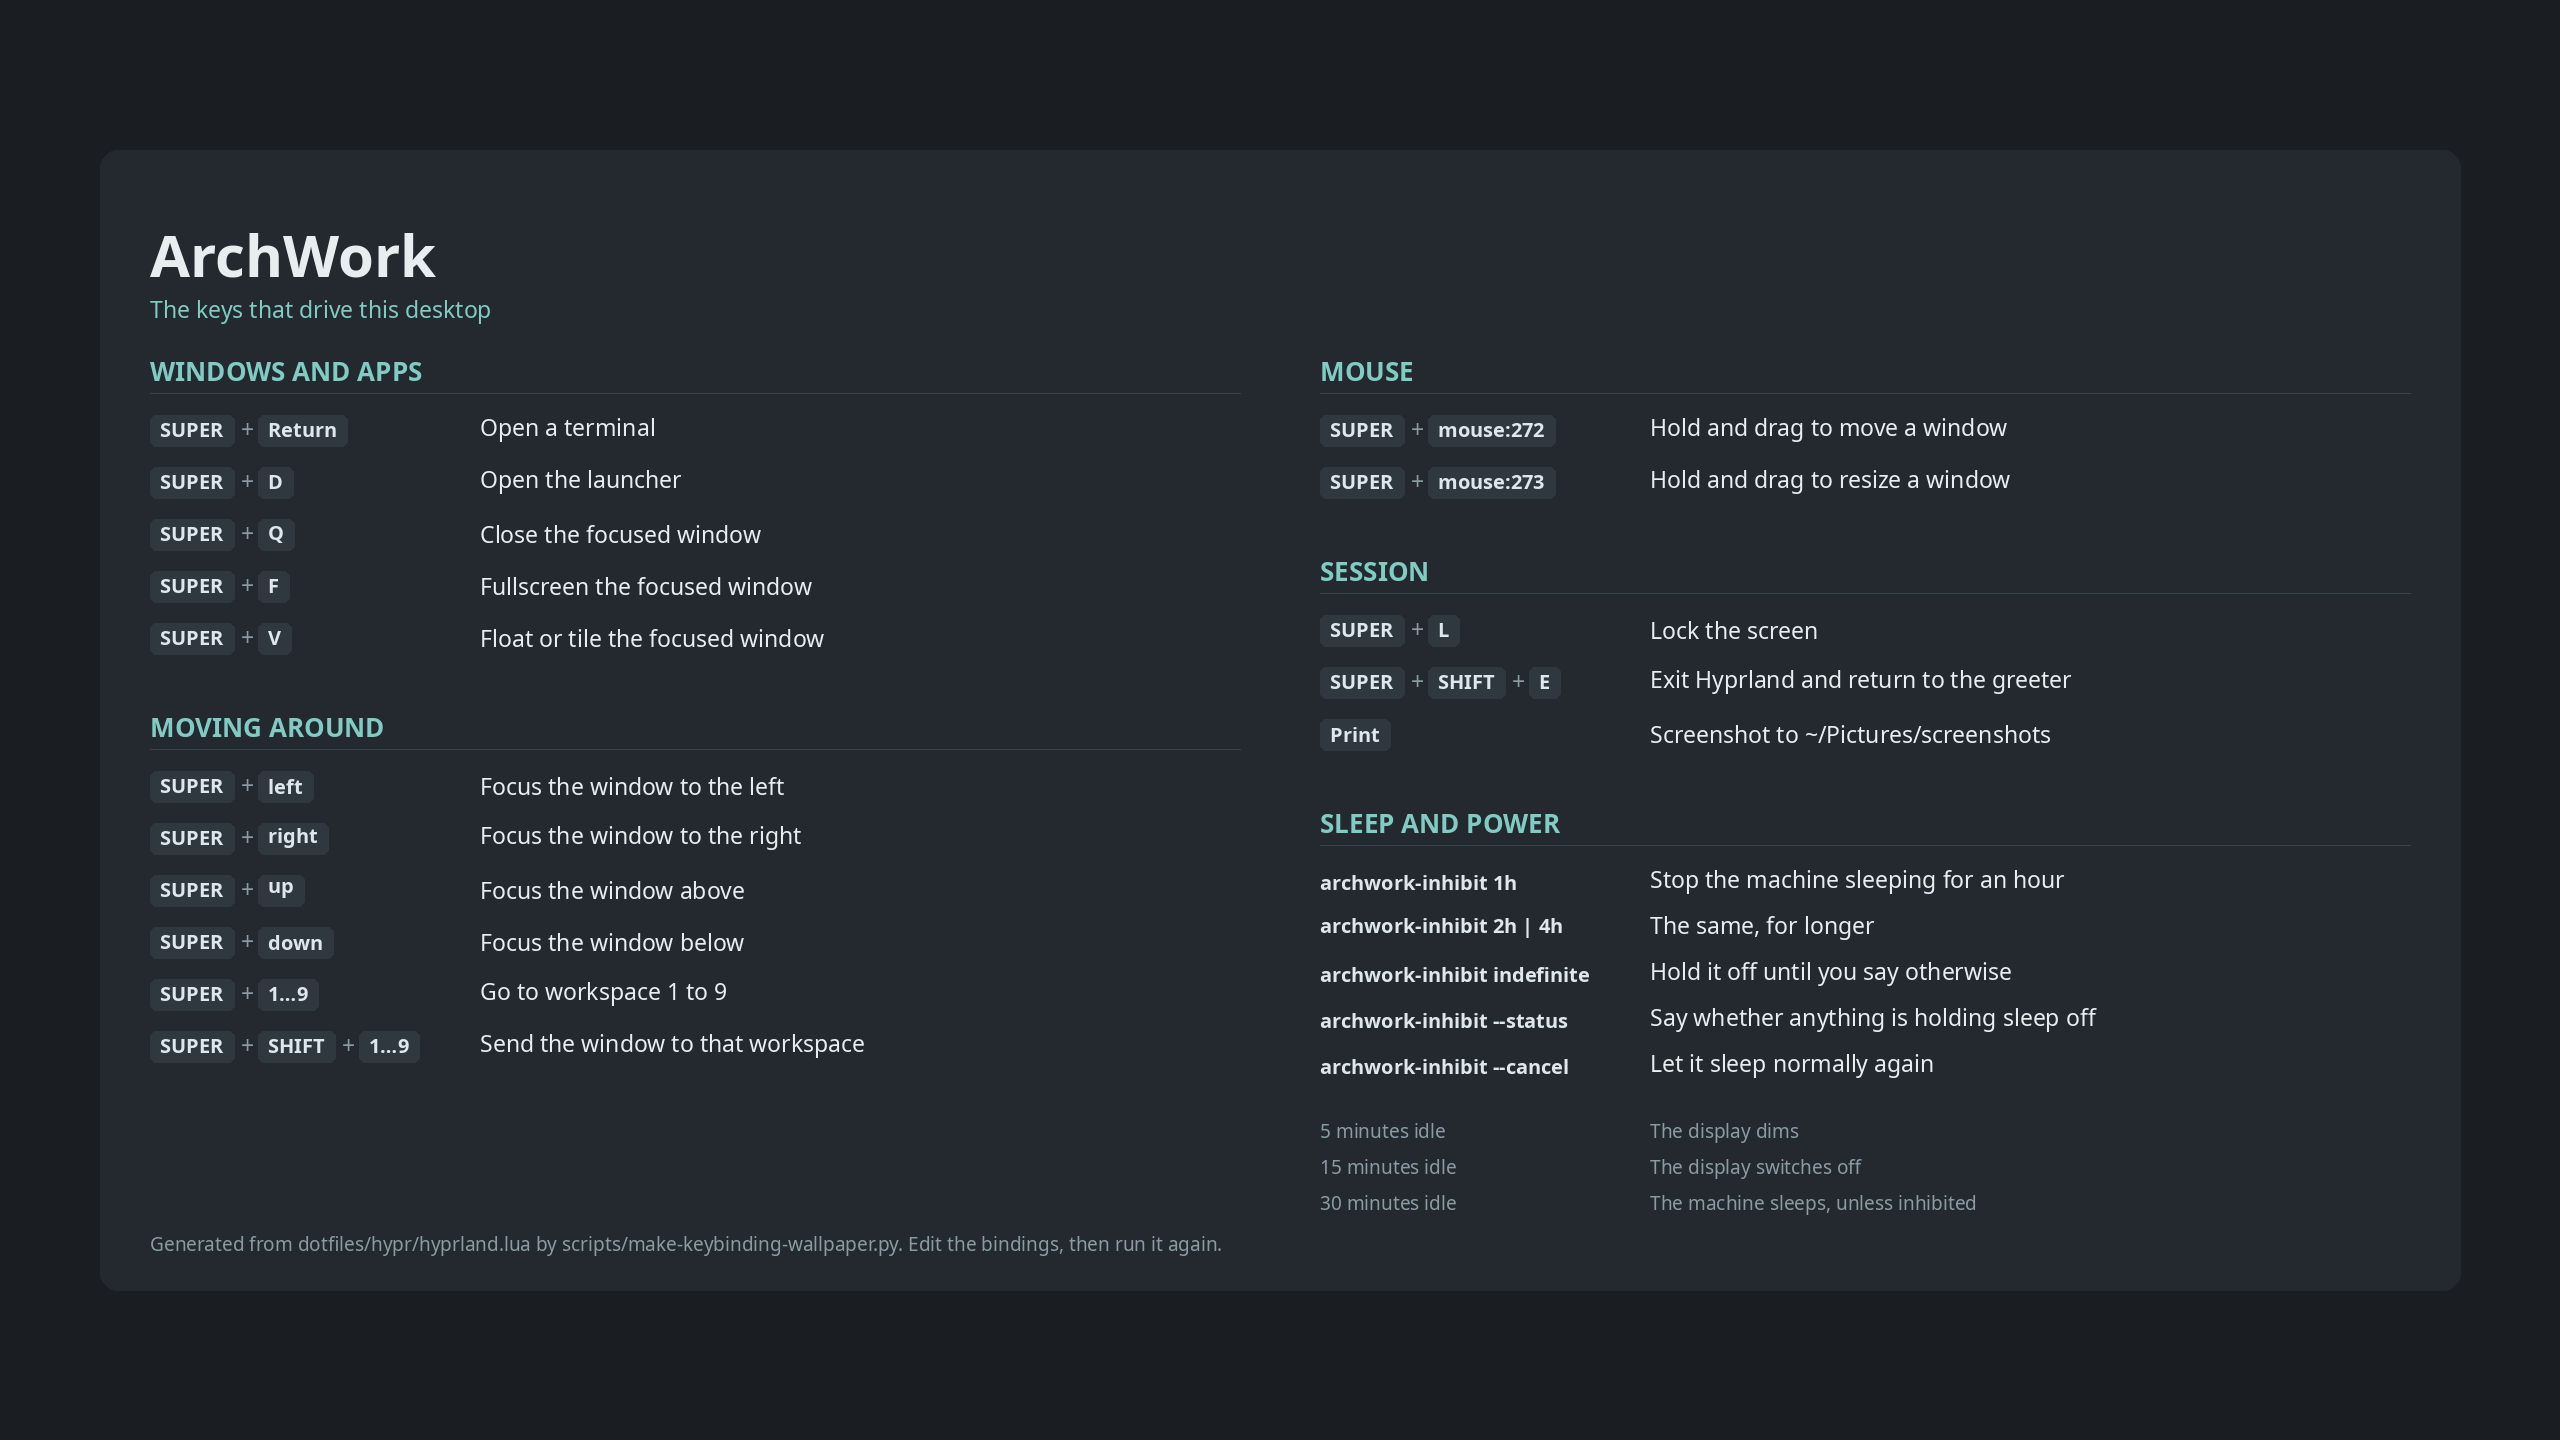
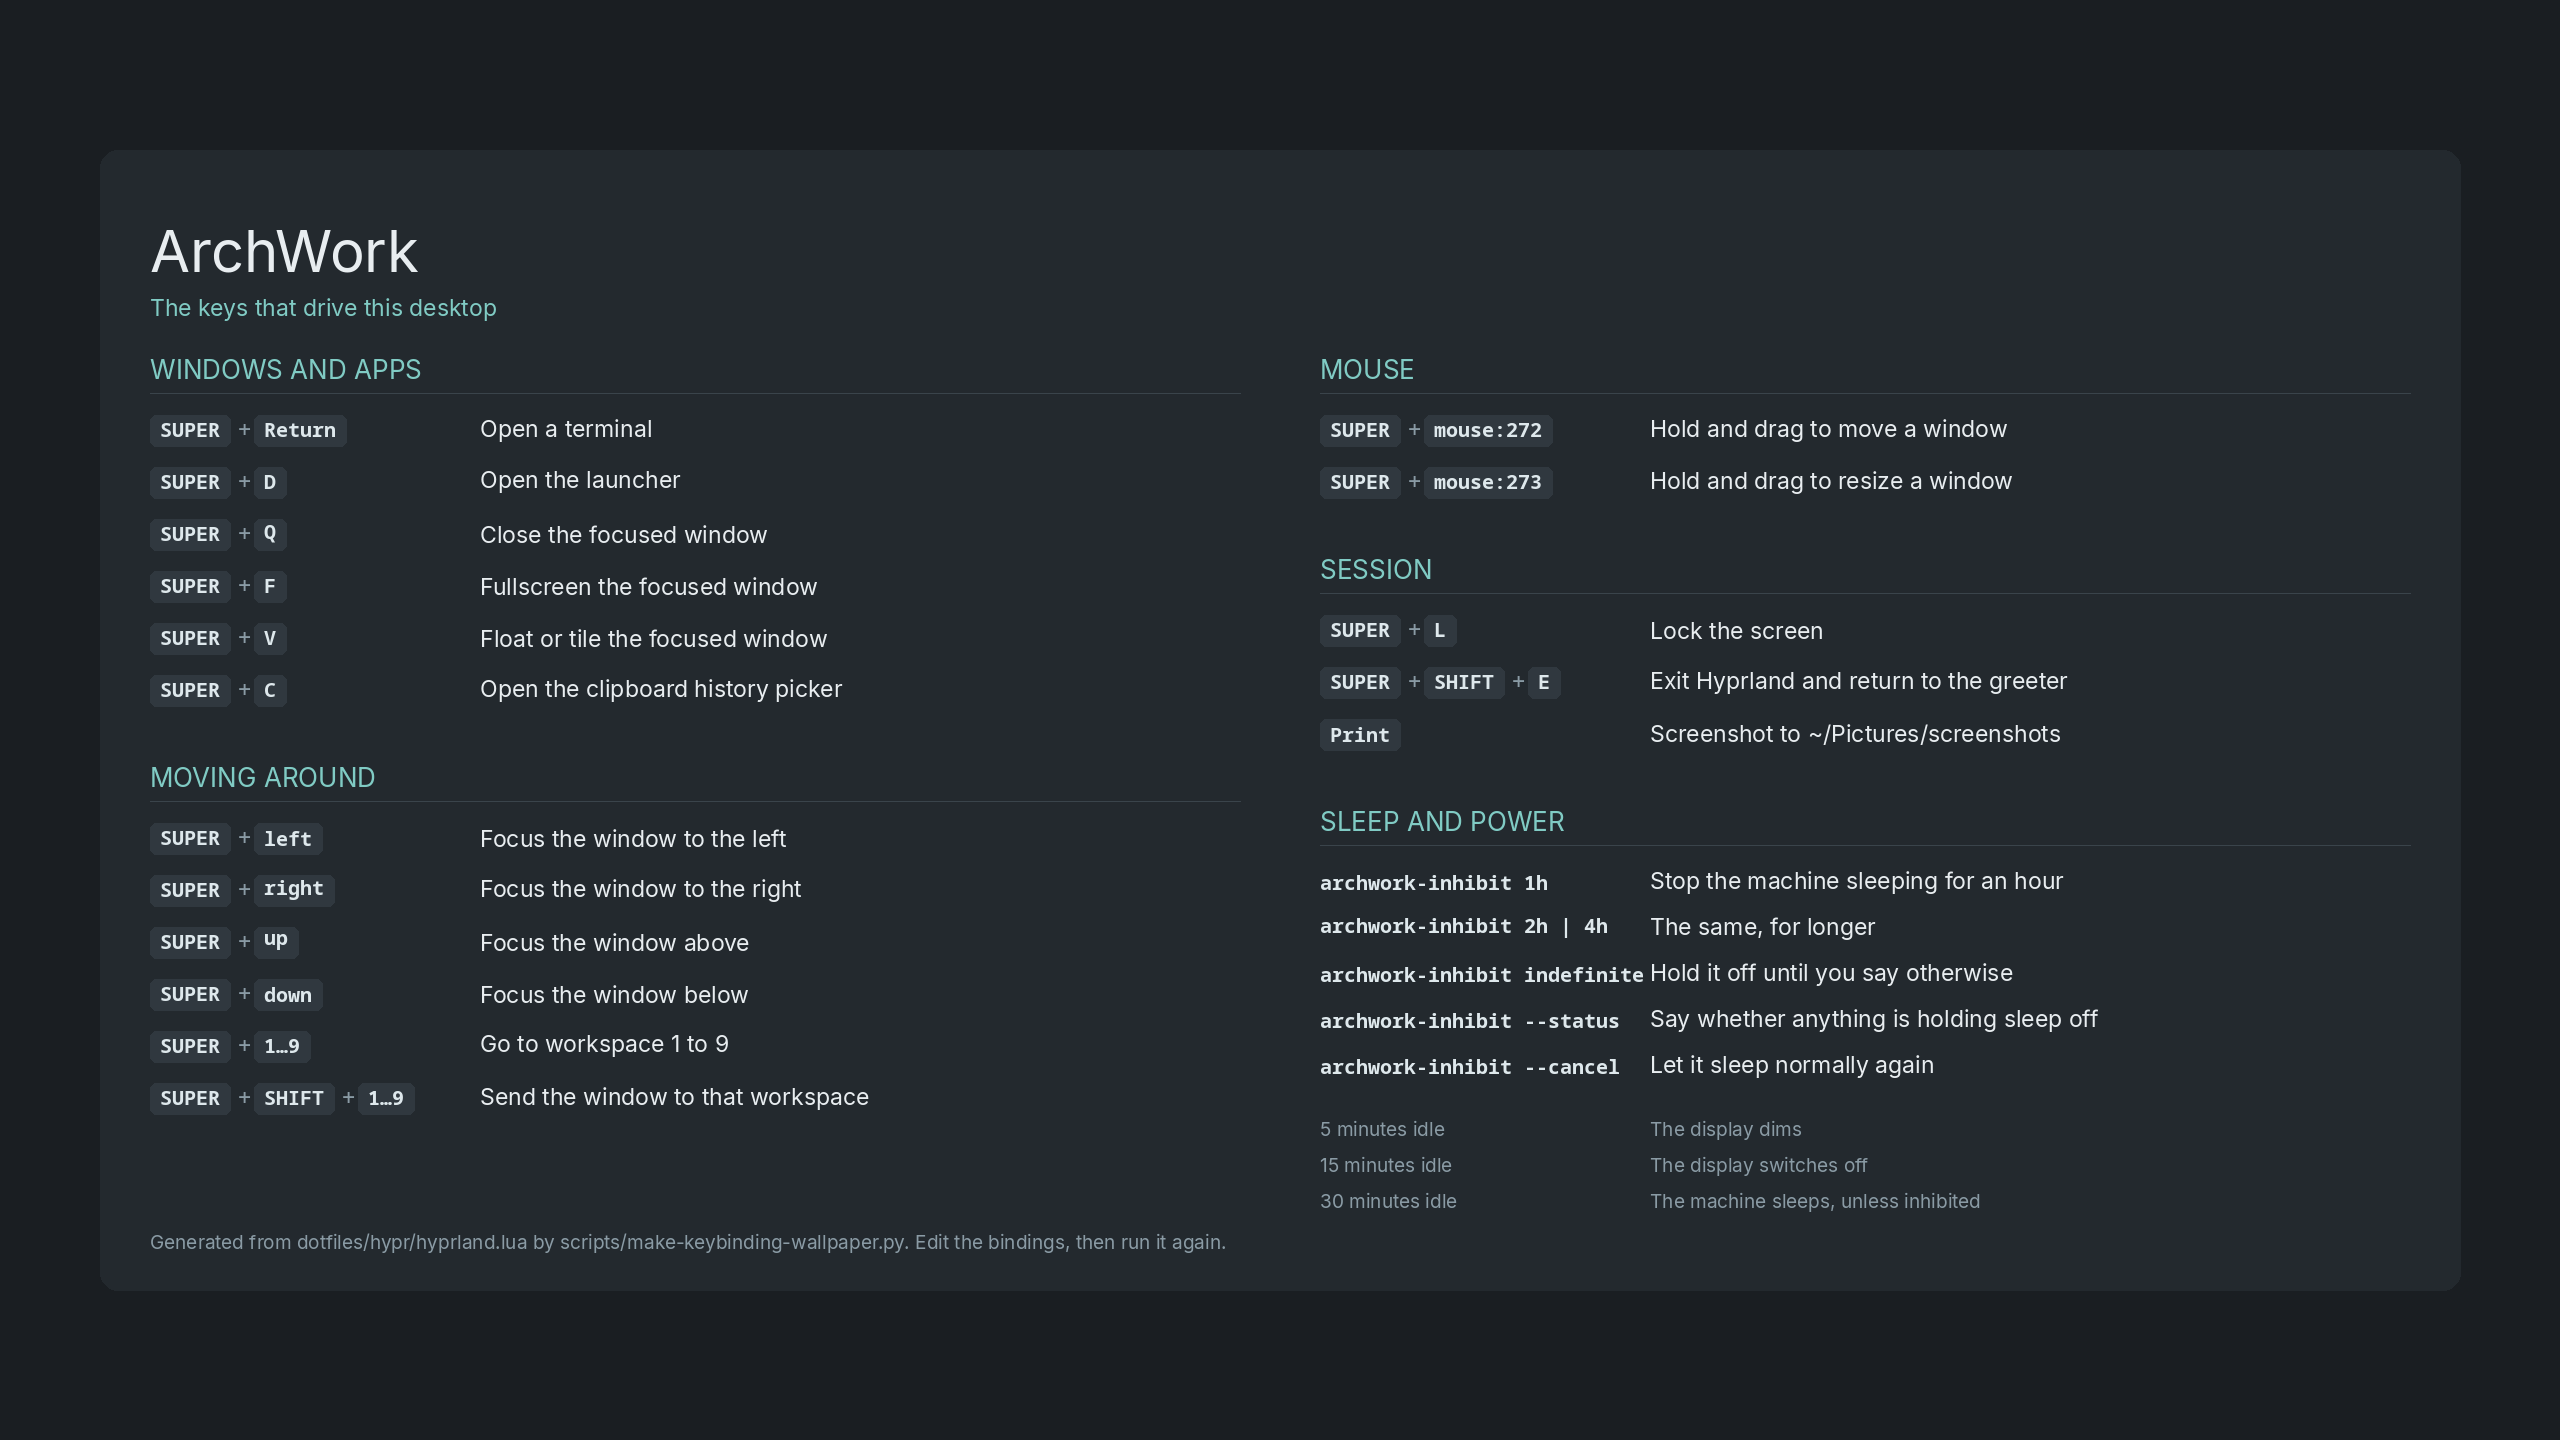
feat: move hypridle/hyprpaper to systemd --user, add clipboard history
D-048. Corrects one bucket of D-047's session-startup gap: pure
background daemons (hypridle, hyprpaper, and the two cliphist
watchers) get systemd --user units, matching the house style already
shipped in hyprpolkitagent's own unit. waybar and mako stay on
Hyprland's exec hook since both are named for M6 replacement.
Quickshell's own eventual placement stays undecided until M6 starts.

Clipboard history (wl-clipboard + cliphist) arrives now rather than
waiting for Quickshell: desktop-shell.md had scoped it there entirely,
but the daemon needs nothing from Quickshell, and fuzzel alone gives a
complete picker (Super+C: cliphist list | fuzzel --dmenu | cliphist
decode | wl-copy).

Tested on hmlxdesktop02 directly, not just written: both new units
started clean via systemctl --user, no duplicate processes against
the old exec'd ones, hypridle's own sleep inhibitor unaffected,
cliphist recorded and decoded a real clipboard round-trip. The
keybinding wallpaper needed regenerating for the new Super+C caption,
caught by make check rather than assumed clean.

Claude-Session: https://claude.ai/code/session_01PVYe6peiDbAH17xwMf879B

diff --git a/scripts/make-keybinding-wallpaper.py b/scripts/make-keybinding-wallpaper.py
@@ -35,6 +35,7 @@ LABELS: dict[str, tuple[str, str]] = {
     "SUPER + Q": ("Windows and apps", "Close the focused window"),
     "SUPER + F": ("Windows and apps", "Fullscreen the focused window"),
     "SUPER + V": ("Windows and apps", "Float or tile the focused window"),
+    "SUPER + C": ("Windows and apps", "Open the clipboard history picker"),
     "SUPER + left": ("Moving around", "Focus the window to the left"),
     "SUPER + right": ("Moving around", "Focus the window to the right"),
     "SUPER + up": ("Moving around", "Focus the window above"),

diff --git a/docs/decisions/log.md b/docs/decisions/log.md
@@ -1473,3 +1473,26 @@ Consequences:
 - Both join `archwork_packages_applications` in `group_vars/all.yml`.
 - **Not installed anywhere yet.** M7's package manifests are the target for `applications.md`'s baseline; nothing has reconciled against this addition.
 - The same read-through surfaced other gaps that are not packages: animations, a persistent-workspace policy, floating window rules, a logout/power UI, and the desktop's session-startup model going through Hyprland's own exec hook rather than `systemd --user` as originally planned. None of those are decided here. They are being taken one at a time rather than batched, because each is a real design choice rather than an omission with one obvious answer.
+
+## D-048 Pure background daemons move to systemd --user; clipboard history arrives without waiting for Quickshell
+
+**Status:** accepted
+**Date:** 2026-09-05
+**Affects:** `desktop-shell.md`, D-047, security-power.md, M3
+
+The first of the session-startup gaps D-047 raised. The original planning notes put `hypridle`, `hyprpaper` and a clipboard daemon under `systemd --user`, with Hyprland's own exec hook reserved for session-specific glue. What's actually running has all of it, `waybar` and `mako` included, started the same way: `hl.exec_cmd` in `hyprland.lua`.
+
+That single bucket was wrong, not the whole idea. `waybar` and `mako` are named for M6 replacement (`desktop-shell.md`), so writing unit files for them now is work spent on something with a known expiry date. Quickshell's own eventual placement is undecided on purpose: nobody knows yet how it wants to synchronise with the compositor being ready, or whether a systemd restart of it is a clean recovery or a visible flicker, and deciding that now, with no Quickshell code written, would be deciding an implementation detail of a milestone that has not started.
+
+`hypridle` and `hyprpaper` are a different case: pure background daemons, nothing visual of their own, nothing for the exec hook to coordinate beyond "start it." They move to `systemd --user` units. So does clipboard history, `wl-clipboard` + `cliphist`, which `desktop-shell.md` had scoped entirely to Quickshell even though the daemon itself needs nothing from it: `cliphist list | fuzzel --dmenu | cliphist decode | wl-copy` is a complete, working picker with fuzzel alone, the same tool M3 already uses for the launcher.
+
+Units live at `dotfiles/systemd/user/`, linked via a new `systemd` entry in `archwork_dotfile_links` (`ansible/group_vars/all.yml`), landing at `~/.config/systemd/user/` where systemd's user manager actually searches. Each matches the house style already shipped in `hyprpolkitagent`'s own unit: `PartOf=graphical-session.target`, `ConditionEnvironment=WAYLAND_DISPLAY` so a unit started before the environment import refuses cleanly rather than failing to find a compositor, `Restart=on-failure`. None are enabled or `WantedBy`-activated; `hyprland.lua`'s exec hook starts each explicitly with `systemctl --user start`, in the same place and the same way it already starts `hyprpolkitagent`, rather than trusting `graphical-session.target` to be reached on its own timing in this session.
+
+`cliphist` gets two units, `cliphist-text` and `cliphist-image`, rather than one `wl-paste --watch` covering every MIME type, matching cliphist's own documented setup.
+
+Consequences:
+
+- `wl-clipboard` and `cliphist` join `archwork_packages_session` in `group_vars/all.yml`.
+- `desktop-shell.md`'s Clipboard row and its new Session component startup row both updated to say this.
+- **Not proven on a rebuild.** The units and the `Super+C` binding are written and tested on the running session on `hmlxdesktop02` by hand; no VM assertion covers any of this, and M4's `assert-m4.sh` checks `hypridle` is running as a process, which is true regardless of what started it, so it gives no signal either way about the units themselves.
+- `waybar`, `mako`, and Quickshell's eventual placement are explicitly not decided here. D-047's remaining gaps (animations, workspace persistence, floating rules, a logout/power UI) are also untouched.

diff --git a/docs/decisions/desktop-shell.md b/docs/decisions/desktop-shell.md
@@ -17,7 +17,8 @@ review: 2027-02-27
 | Lock screen | Hyprlock | Longer-term goal is to replace/integrate with Quickshell. |
 | Wallpaper | Hyprpaper | Use initially; review later. |
 | Notifications | Quickshell | Notification UI handled by Quickshell. |
-| Clipboard | wl-clipboard + cliphist | Surfaced through Quickshell. |
+| Clipboard | wl-clipboard + cliphist | The daemon and a fuzzel dmenu picker arrive at M3 (D-048); only the picker's UI is Quickshell's to replace later. |
+| Session component startup | systemd --user for pure background daemons; Hyprland's exec hook otherwise | D-048. hypridle, hyprpaper and cliphist's two watchers have nothing for the hook to coordinate beyond starting them, so they run as units: restart on crash, real logs. waybar and mako stay on the exec hook because both are named for M6 replacement; writing unit files for something with a known expiry date is work spent twice. Quickshell's own placement is undecided until M6 actually starts. |
 | Screenshots | grim + Satty + Quickshell UI | Chosen as the closest practical Linux workflow to KDE Spectacle. |
 | Screen recording | wf-recorder + Quickshell UI | OBS excluded by default; install manually if ever needed. |
 | Terminal | Kitty | Selected initially; mark for future review. |
